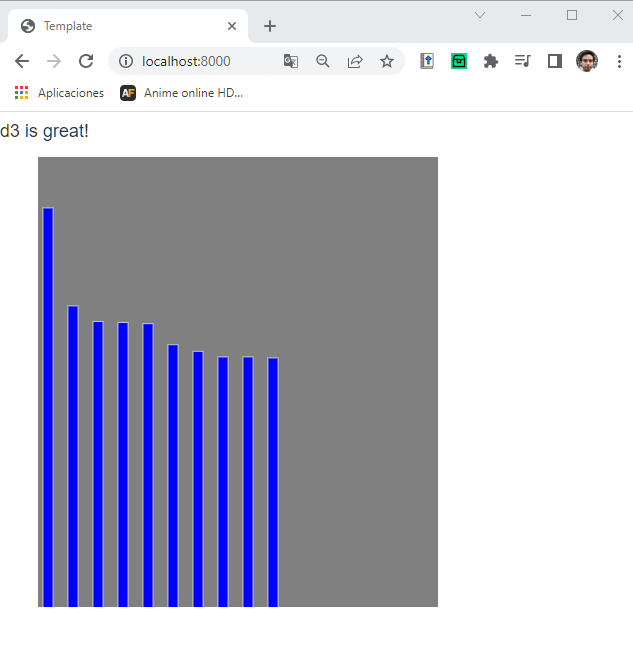
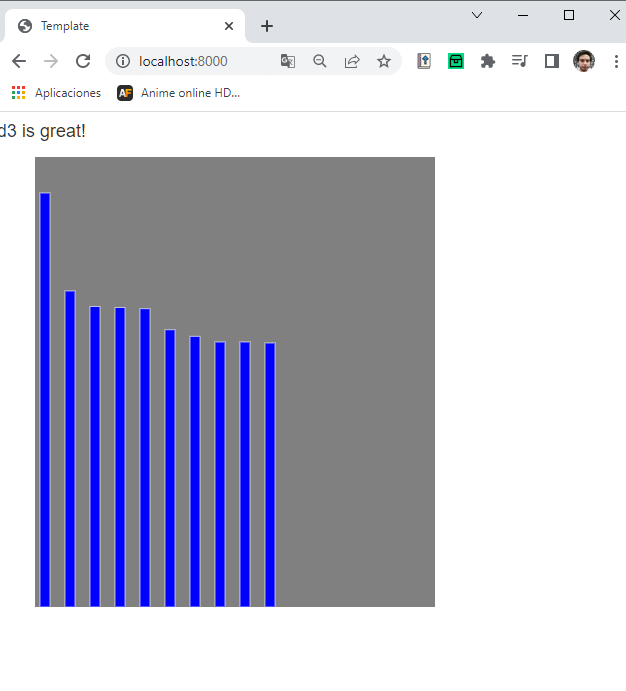
corrected challenge 1

diff --git a/Challenge I Buildings of the world/js/main.js b/Challenge I Buildings of the world/js/main.js
@@ -20,7 +20,7 @@ d3.json("data/buildings.json").then((data)=> {
 	rectangles.enter()
 	.append("rect")
 	.attr("x",(d,i)=>(i*50)+10)
-	.attr("y", (d)=>(900-d.height)+30)
+	.attr("y", (d)=>(900-d.height))
 	.attr("width",20)
 	.attr("height", (d)=>d.height)
 	.attr("fill","blue");
